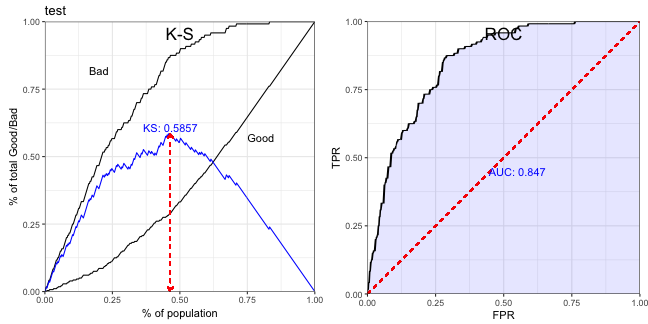
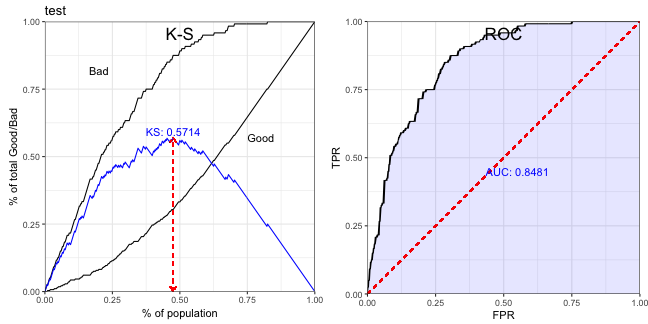
sc update

diff --git a/slide/20171115scorecard/index.html b/slide/20171115scorecard/index.html
@@ -678,31 +678,31 @@ summary(m2)$coefficients
 
 ```
 ##                                         Estimate Std. Error z value
-## (Intercept)                              -0.7864     0.1037  -7.583
-## status.of.existing.checking.account_woe   0.5805     0.1306   4.444
-## duration.in.month_woe                     0.5871     0.2064   2.845
-## credit.history_woe                        0.4267     0.1974   2.162
-## purpose_woe                               1.0299     0.2725   3.780
-## credit.amount_woe                         0.7072     0.2428   2.913
-## savings.account.and.bonds_woe             0.6874     0.2403   2.860
-## present.employment.since_woe              0.5908     0.3594   1.644
-## personal.status.and.sex_woe               1.1820     0.5175   2.284
-## property_woe                              0.7591     0.3271   2.321
-## age.in.years_woe                          0.7678     0.3215   2.388
-## other.installment.plans_woe               0.7215     0.4052   1.780
+## (Intercept)                              -0.7806     0.1038  -7.522
+## status.of.existing.checking.account_woe   0.5764     0.1305   4.418
+## duration.in.month_woe                     0.6085     0.2048   2.972
+## credit.history_woe                        0.4244     0.1973   2.151
+## purpose_woe                               1.0134     0.2724   3.721
+## credit.amount_woe                         0.6753     0.2370   2.850
+## savings.account.and.bonds_woe             0.6752     0.2398   2.815
+## present.employment.since_woe              0.5946     0.3595   1.654
+## personal.status.and.sex_woe               1.1846     0.5174   2.290
+## property_woe                              0.7705     0.3264   2.361
+## age.in.years_woe                          0.7617     0.3210   2.373
+## other.installment.plans_woe               0.7168     0.4050   1.770
 ##                                          Pr(&gt;|z|)
-## (Intercept)                             3.365e-14
-## status.of.existing.checking.account_woe 8.836e-06
-## duration.in.month_woe                   4.444e-03
-## credit.history_woe                      3.063e-02
-## purpose_woe                             1.570e-04
-## credit.amount_woe                       3.582e-03
-## savings.account.and.bonds_woe           4.235e-03
-## present.employment.since_woe            1.003e-01
-## personal.status.and.sex_woe             2.236e-02
-## property_woe                            2.031e-02
-## age.in.years_woe                        1.694e-02
-## other.installment.plans_woe             7.501e-02
+## (Intercept)                             5.389e-14
+## status.of.existing.checking.account_woe 9.956e-06
+## duration.in.month_woe                   2.958e-03
+## credit.history_woe                      3.146e-02
+## purpose_woe                             1.988e-04
+## credit.amount_woe                       4.371e-03
+## savings.account.and.bonds_woe           4.874e-03
+## present.employment.since_woe            9.810e-02
+## personal.status.and.sex_woe             2.205e-02
+## property_woe                            1.825e-02
+## age.in.years_woe                        1.767e-02
+## other.installment.plans_woe             7.674e-02
 ```
 
 ---
@@ -873,7 +873,7 @@ str(train_score)
 
 ```
 ## Classes 'data.table' and 'data.frame':	600 obs. of  1 variable:
-##  $ score: num  401 415 418 628 389 363 374 699 398 423 ...
+##  $ score: num  402 423 420 628 389 361 373 699 401 423 ...
 ##  - attr(*, ".internal.selfref")=&lt;externalptr&gt;
 ```
 
@@ -886,17 +886,17 @@ str(train_score2)
 ```
 ## Classes 'data.table' and 'data.frame':	600 obs. of  12 variables:
 ##  $ status.of.existing.checking.account_points: num  -26 -26 -26 49 17 -26 -26 49 -26 49 ...
-##  $ duration.in.month_points                  : num  15 -5 56 -5 -5 -5 -22 56 15 15 ...
-##  $ credit.history_points                     : num  -3 -3 -3 23 -3 -35 -3 23 -3 -3 ...
-##  $ purpose_points                            : num  -21 -21 -21 30 -21 60 -21 30 -21 -21 ...
-##  $ credit.amount_points                      : num  18 -20 18 -6 18 18 18 18 -6 18 ...
-##  $ savings.account.and.bonds_points          : num  -13 -13 -7 38 -7 -13 -13 38 -13 -13 ...
+##  $ duration.in.month_points                  : num  15 -5 58 -5 -5 -5 -23 58 15 15 ...
+##  $ credit.history_points                     : num  -3 -3 -3 22 -3 -35 -3 22 -3 -3 ...
+##  $ purpose_points                            : num  -20 -20 -20 30 -20 59 -20 30 -20 -20 ...
+##  $ credit.amount_points                      : num  17 -14 17 -5 17 17 17 17 -5 17 ...
+##  $ savings.account.and.bonds_points          : num  -13 -13 -7 37 -7 -13 -13 37 -13 -13 ...
 ##  $ present.employment.since_points           : num  -18 17 10 -1 -1 -1 -18 -1 -1 -18 ...
 ##  $ personal.status.and.sex_points            : num  -23 14 -23 14 -23 -23 14 14 12 -23 ...
-##  $ property_points                           : num  25 25 -2 25 -2 -2 -2 25 25 -2 ...
+##  $ property_points                           : num  26 26 -2 26 -2 -2 -2 26 26 -2 ...
 ##  $ age.in.years_points                       : num  -3 -3 -3 11 -3 -29 -3 -3 -3 -29 ...
 ##  $ other.installment.plans_points            : num  6 6 -25 6 -25 -25 6 6 -25 6 ...
-##  $ score                                     : num  401 415 418 628 389 363 374 699 398 423 ...
+##  $ score                                     : num  402 423 420 628 389 361 373 699 401 423 ...
 ##  - attr(*, ".internal.selfref")=&lt;externalptr&gt;
 ```
 
@@ -929,79 +929,79 @@ str(train_score2)
    &lt;td style="text-align:right;"&gt; -0.0092 &lt;/td&gt;
    &lt;td style="text-align:right;"&gt; -0.2429 &lt;/td&gt;
    &lt;td style="text-align:right;"&gt; 0.0022 &lt;/td&gt;
-   &lt;td style="text-align:right;"&gt; 0.0262 &lt;/td&gt;
+   &lt;td style="text-align:right;"&gt; 0.0266 &lt;/td&gt;
   &lt;/tr&gt;
   &lt;tr&gt;
    &lt;td style="text-align:left;"&gt; [300,350) &lt;/td&gt;
-   &lt;td style="text-align:right;"&gt; 0.0667 &lt;/td&gt;
-   &lt;td style="text-align:right;"&gt; 0.0750 &lt;/td&gt;
-   &lt;td style="text-align:right;"&gt; -0.0083 &lt;/td&gt;
-   &lt;td style="text-align:right;"&gt; -0.1178 &lt;/td&gt;
-   &lt;td style="text-align:right;"&gt; 0.0010 &lt;/td&gt;
-   &lt;td style="text-align:right;"&gt; 0.0262 &lt;/td&gt;
-  &lt;/tr&gt;
-  &lt;tr&gt;
-   &lt;td style="text-align:left;"&gt; [350,400) &lt;/td&gt;
-   &lt;td style="text-align:right;"&gt; 0.1600 &lt;/td&gt;
-   &lt;td style="text-align:right;"&gt; 0.1650 &lt;/td&gt;
-   &lt;td style="text-align:right;"&gt; -0.0050 &lt;/td&gt;
-   &lt;td style="text-align:right;"&gt; -0.0308 &lt;/td&gt;
-   &lt;td style="text-align:right;"&gt; 0.0002 &lt;/td&gt;
-   &lt;td style="text-align:right;"&gt; 0.0262 &lt;/td&gt;
-  &lt;/tr&gt;
-  &lt;tr&gt;
-   &lt;td style="text-align:left;"&gt; [400,450) &lt;/td&gt;
-   &lt;td style="text-align:right;"&gt; 0.1683 &lt;/td&gt;
-   &lt;td style="text-align:right;"&gt; 0.1725 &lt;/td&gt;
-   &lt;td style="text-align:right;"&gt; -0.0042 &lt;/td&gt;
-   &lt;td style="text-align:right;"&gt; -0.0245 &lt;/td&gt;
-   &lt;td style="text-align:right;"&gt; 0.0001 &lt;/td&gt;
-   &lt;td style="text-align:right;"&gt; 0.0262 &lt;/td&gt;
-  &lt;/tr&gt;
-  &lt;tr&gt;
-   &lt;td style="text-align:left;"&gt; [450,500) &lt;/td&gt;
-   &lt;td style="text-align:right;"&gt; 0.1900 &lt;/td&gt;
-   &lt;td style="text-align:right;"&gt; 0.2075 &lt;/td&gt;
-   &lt;td style="text-align:right;"&gt; -0.0175 &lt;/td&gt;
-   &lt;td style="text-align:right;"&gt; -0.0881 &lt;/td&gt;
-   &lt;td style="text-align:right;"&gt; 0.0015 &lt;/td&gt;
-   &lt;td style="text-align:right;"&gt; 0.0262 &lt;/td&gt;
-  &lt;/tr&gt;
-  &lt;tr&gt;
-   &lt;td style="text-align:left;"&gt; [500,550) &lt;/td&gt;
-   &lt;td style="text-align:right;"&gt; 0.1717 &lt;/td&gt;
-   &lt;td style="text-align:right;"&gt; 0.1725 &lt;/td&gt;
-   &lt;td style="text-align:right;"&gt; -0.0008 &lt;/td&gt;
-   &lt;td style="text-align:right;"&gt; -0.0048 &lt;/td&gt;
-   &lt;td style="text-align:right;"&gt; 0.0000 &lt;/td&gt;
-   &lt;td style="text-align:right;"&gt; 0.0262 &lt;/td&gt;
-  &lt;/tr&gt;
-  &lt;tr&gt;
-   &lt;td style="text-align:left;"&gt; [550,600) &lt;/td&gt;
-   &lt;td style="text-align:right;"&gt; 0.1183 &lt;/td&gt;
-   &lt;td style="text-align:right;"&gt; 0.0775 &lt;/td&gt;
-   &lt;td style="text-align:right;"&gt; 0.0408 &lt;/td&gt;
-   &lt;td style="text-align:right;"&gt; 0.4232 &lt;/td&gt;
-   &lt;td style="text-align:right;"&gt; 0.0173 &lt;/td&gt;
-   &lt;td style="text-align:right;"&gt; 0.0262 &lt;/td&gt;
-  &lt;/tr&gt;
-  &lt;tr&gt;
-   &lt;td style="text-align:left;"&gt; [600,650) &lt;/td&gt;
    &lt;td style="text-align:right;"&gt; 0.0683 &lt;/td&gt;
    &lt;td style="text-align:right;"&gt; 0.0725 &lt;/td&gt;
    &lt;td style="text-align:right;"&gt; -0.0042 &lt;/td&gt;
    &lt;td style="text-align:right;"&gt; -0.0592 &lt;/td&gt;
    &lt;td style="text-align:right;"&gt; 0.0002 &lt;/td&gt;
-   &lt;td style="text-align:right;"&gt; 0.0262 &lt;/td&gt;
+   &lt;td style="text-align:right;"&gt; 0.0266 &lt;/td&gt;
+  &lt;/tr&gt;
+  &lt;tr&gt;
+   &lt;td style="text-align:left;"&gt; [350,400) &lt;/td&gt;
+   &lt;td style="text-align:right;"&gt; 0.1517 &lt;/td&gt;
+   &lt;td style="text-align:right;"&gt; 0.1625 &lt;/td&gt;
+   &lt;td style="text-align:right;"&gt; -0.0108 &lt;/td&gt;
+   &lt;td style="text-align:right;"&gt; -0.0690 &lt;/td&gt;
+   &lt;td style="text-align:right;"&gt; 0.0007 &lt;/td&gt;
+   &lt;td style="text-align:right;"&gt; 0.0266 &lt;/td&gt;
+  &lt;/tr&gt;
+  &lt;tr&gt;
+   &lt;td style="text-align:left;"&gt; [400,450) &lt;/td&gt;
+   &lt;td style="text-align:right;"&gt; 0.1767 &lt;/td&gt;
+   &lt;td style="text-align:right;"&gt; 0.1700 &lt;/td&gt;
+   &lt;td style="text-align:right;"&gt; 0.0067 &lt;/td&gt;
+   &lt;td style="text-align:right;"&gt; 0.0385 &lt;/td&gt;
+   &lt;td style="text-align:right;"&gt; 0.0003 &lt;/td&gt;
+   &lt;td style="text-align:right;"&gt; 0.0266 &lt;/td&gt;
+  &lt;/tr&gt;
+  &lt;tr&gt;
+   &lt;td style="text-align:left;"&gt; [450,500) &lt;/td&gt;
+   &lt;td style="text-align:right;"&gt; 0.1900 &lt;/td&gt;
+   &lt;td style="text-align:right;"&gt; 0.2175 &lt;/td&gt;
+   &lt;td style="text-align:right;"&gt; -0.0275 &lt;/td&gt;
+   &lt;td style="text-align:right;"&gt; -0.1352 &lt;/td&gt;
+   &lt;td style="text-align:right;"&gt; 0.0037 &lt;/td&gt;
+   &lt;td style="text-align:right;"&gt; 0.0266 &lt;/td&gt;
+  &lt;/tr&gt;
+  &lt;tr&gt;
+   &lt;td style="text-align:left;"&gt; [500,550) &lt;/td&gt;
+   &lt;td style="text-align:right;"&gt; 0.1683 &lt;/td&gt;
+   &lt;td style="text-align:right;"&gt; 0.1650 &lt;/td&gt;
+   &lt;td style="text-align:right;"&gt; 0.0033 &lt;/td&gt;
+   &lt;td style="text-align:right;"&gt; 0.0200 &lt;/td&gt;
+   &lt;td style="text-align:right;"&gt; 0.0001 &lt;/td&gt;
+   &lt;td style="text-align:right;"&gt; 0.0266 &lt;/td&gt;
+  &lt;/tr&gt;
+  &lt;tr&gt;
+   &lt;td style="text-align:left;"&gt; [550,600) &lt;/td&gt;
+   &lt;td style="text-align:right;"&gt; 0.1233 &lt;/td&gt;
+   &lt;td style="text-align:right;"&gt; 0.0825 &lt;/td&gt;
+   &lt;td style="text-align:right;"&gt; 0.0408 &lt;/td&gt;
+   &lt;td style="text-align:right;"&gt; 0.4021 &lt;/td&gt;
+   &lt;td style="text-align:right;"&gt; 0.0164 &lt;/td&gt;
+   &lt;td style="text-align:right;"&gt; 0.0266 &lt;/td&gt;
+  &lt;/tr&gt;
+  &lt;tr&gt;
+   &lt;td style="text-align:left;"&gt; [600,650) &lt;/td&gt;
+   &lt;td style="text-align:right;"&gt; 0.0667 &lt;/td&gt;
+   &lt;td style="text-align:right;"&gt; 0.0725 &lt;/td&gt;
+   &lt;td style="text-align:right;"&gt; -0.0058 &lt;/td&gt;
+   &lt;td style="text-align:right;"&gt; -0.0839 &lt;/td&gt;
+   &lt;td style="text-align:right;"&gt; 0.0005 &lt;/td&gt;
+   &lt;td style="text-align:right;"&gt; 0.0266 &lt;/td&gt;
   &lt;/tr&gt;
   &lt;tr&gt;
    &lt;td style="text-align:left;"&gt; [650,700) &lt;/td&gt;
-   &lt;td style="text-align:right;"&gt; 0.0233 &lt;/td&gt;
+   &lt;td style="text-align:right;"&gt; 0.0217 &lt;/td&gt;
    &lt;td style="text-align:right;"&gt; 0.0150 &lt;/td&gt;
-   &lt;td style="text-align:right;"&gt; 0.0083 &lt;/td&gt;
-   &lt;td style="text-align:right;"&gt; 0.4418 &lt;/td&gt;
-   &lt;td style="text-align:right;"&gt; 0.0037 &lt;/td&gt;
-   &lt;td style="text-align:right;"&gt; 0.0262 &lt;/td&gt;
+   &lt;td style="text-align:right;"&gt; 0.0067 &lt;/td&gt;
+   &lt;td style="text-align:right;"&gt; 0.3677 &lt;/td&gt;
+   &lt;td style="text-align:right;"&gt; 0.0025 &lt;/td&gt;
+   &lt;td style="text-align:right;"&gt; 0.0266 &lt;/td&gt;
   &lt;/tr&gt;
 &lt;/tbody&gt;
 &lt;/table&gt;
@@ -1064,7 +1064,7 @@ psi$psi
 
 ```
 ##    variable    PSI
-## 1:    score 0.0262
+## 1:    score 0.0266
 ```
 ]
 
